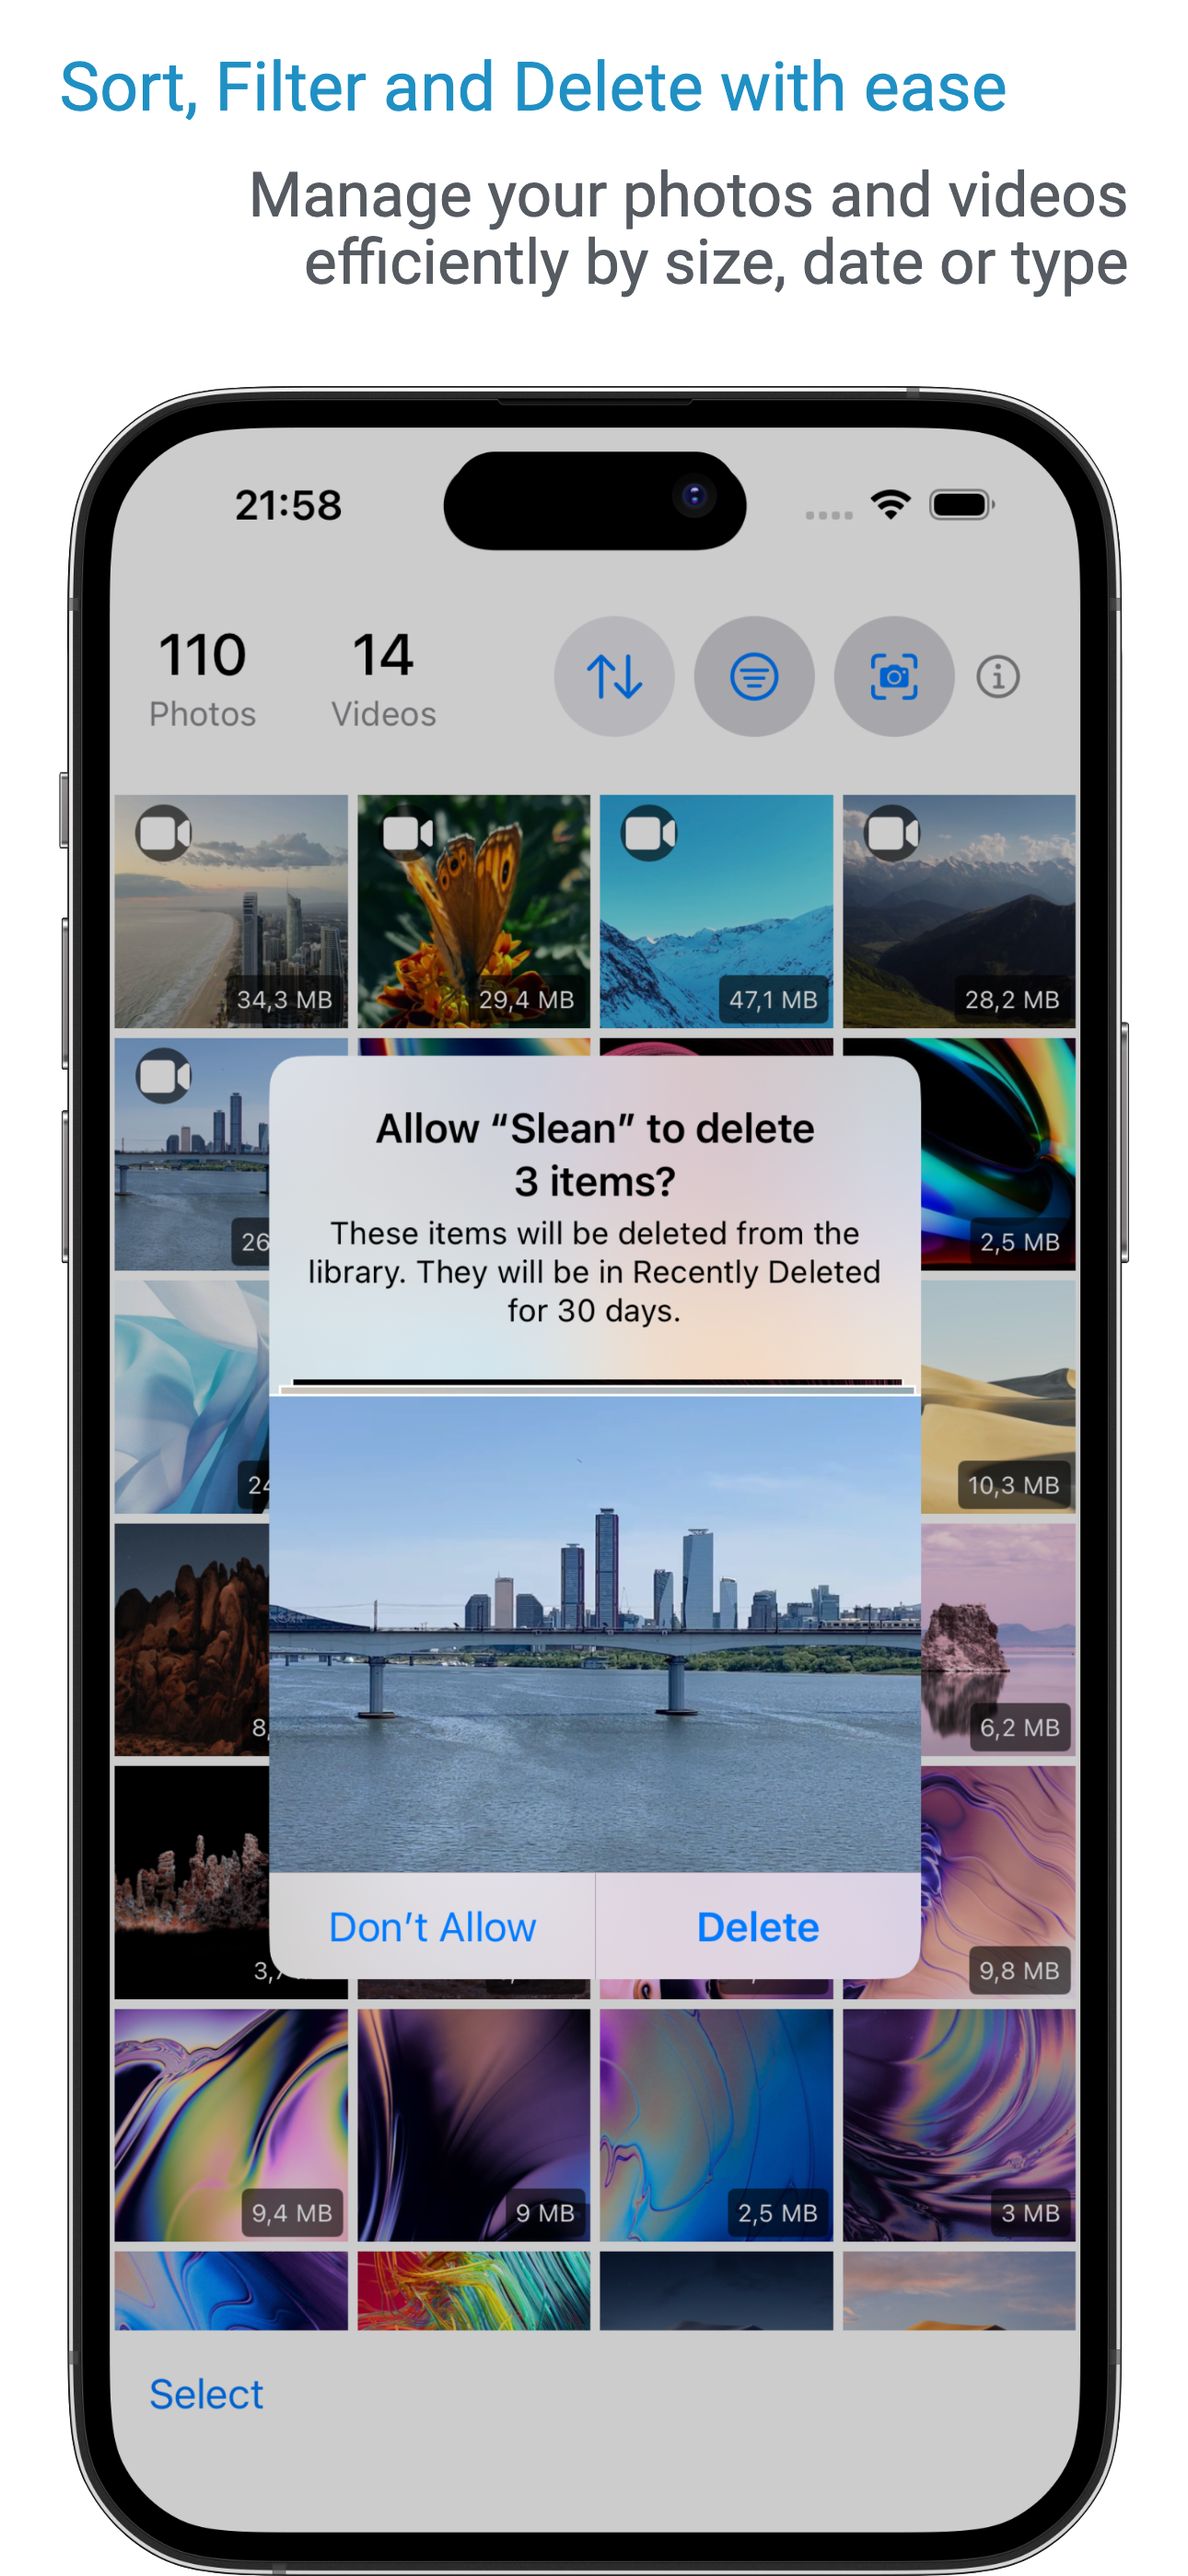
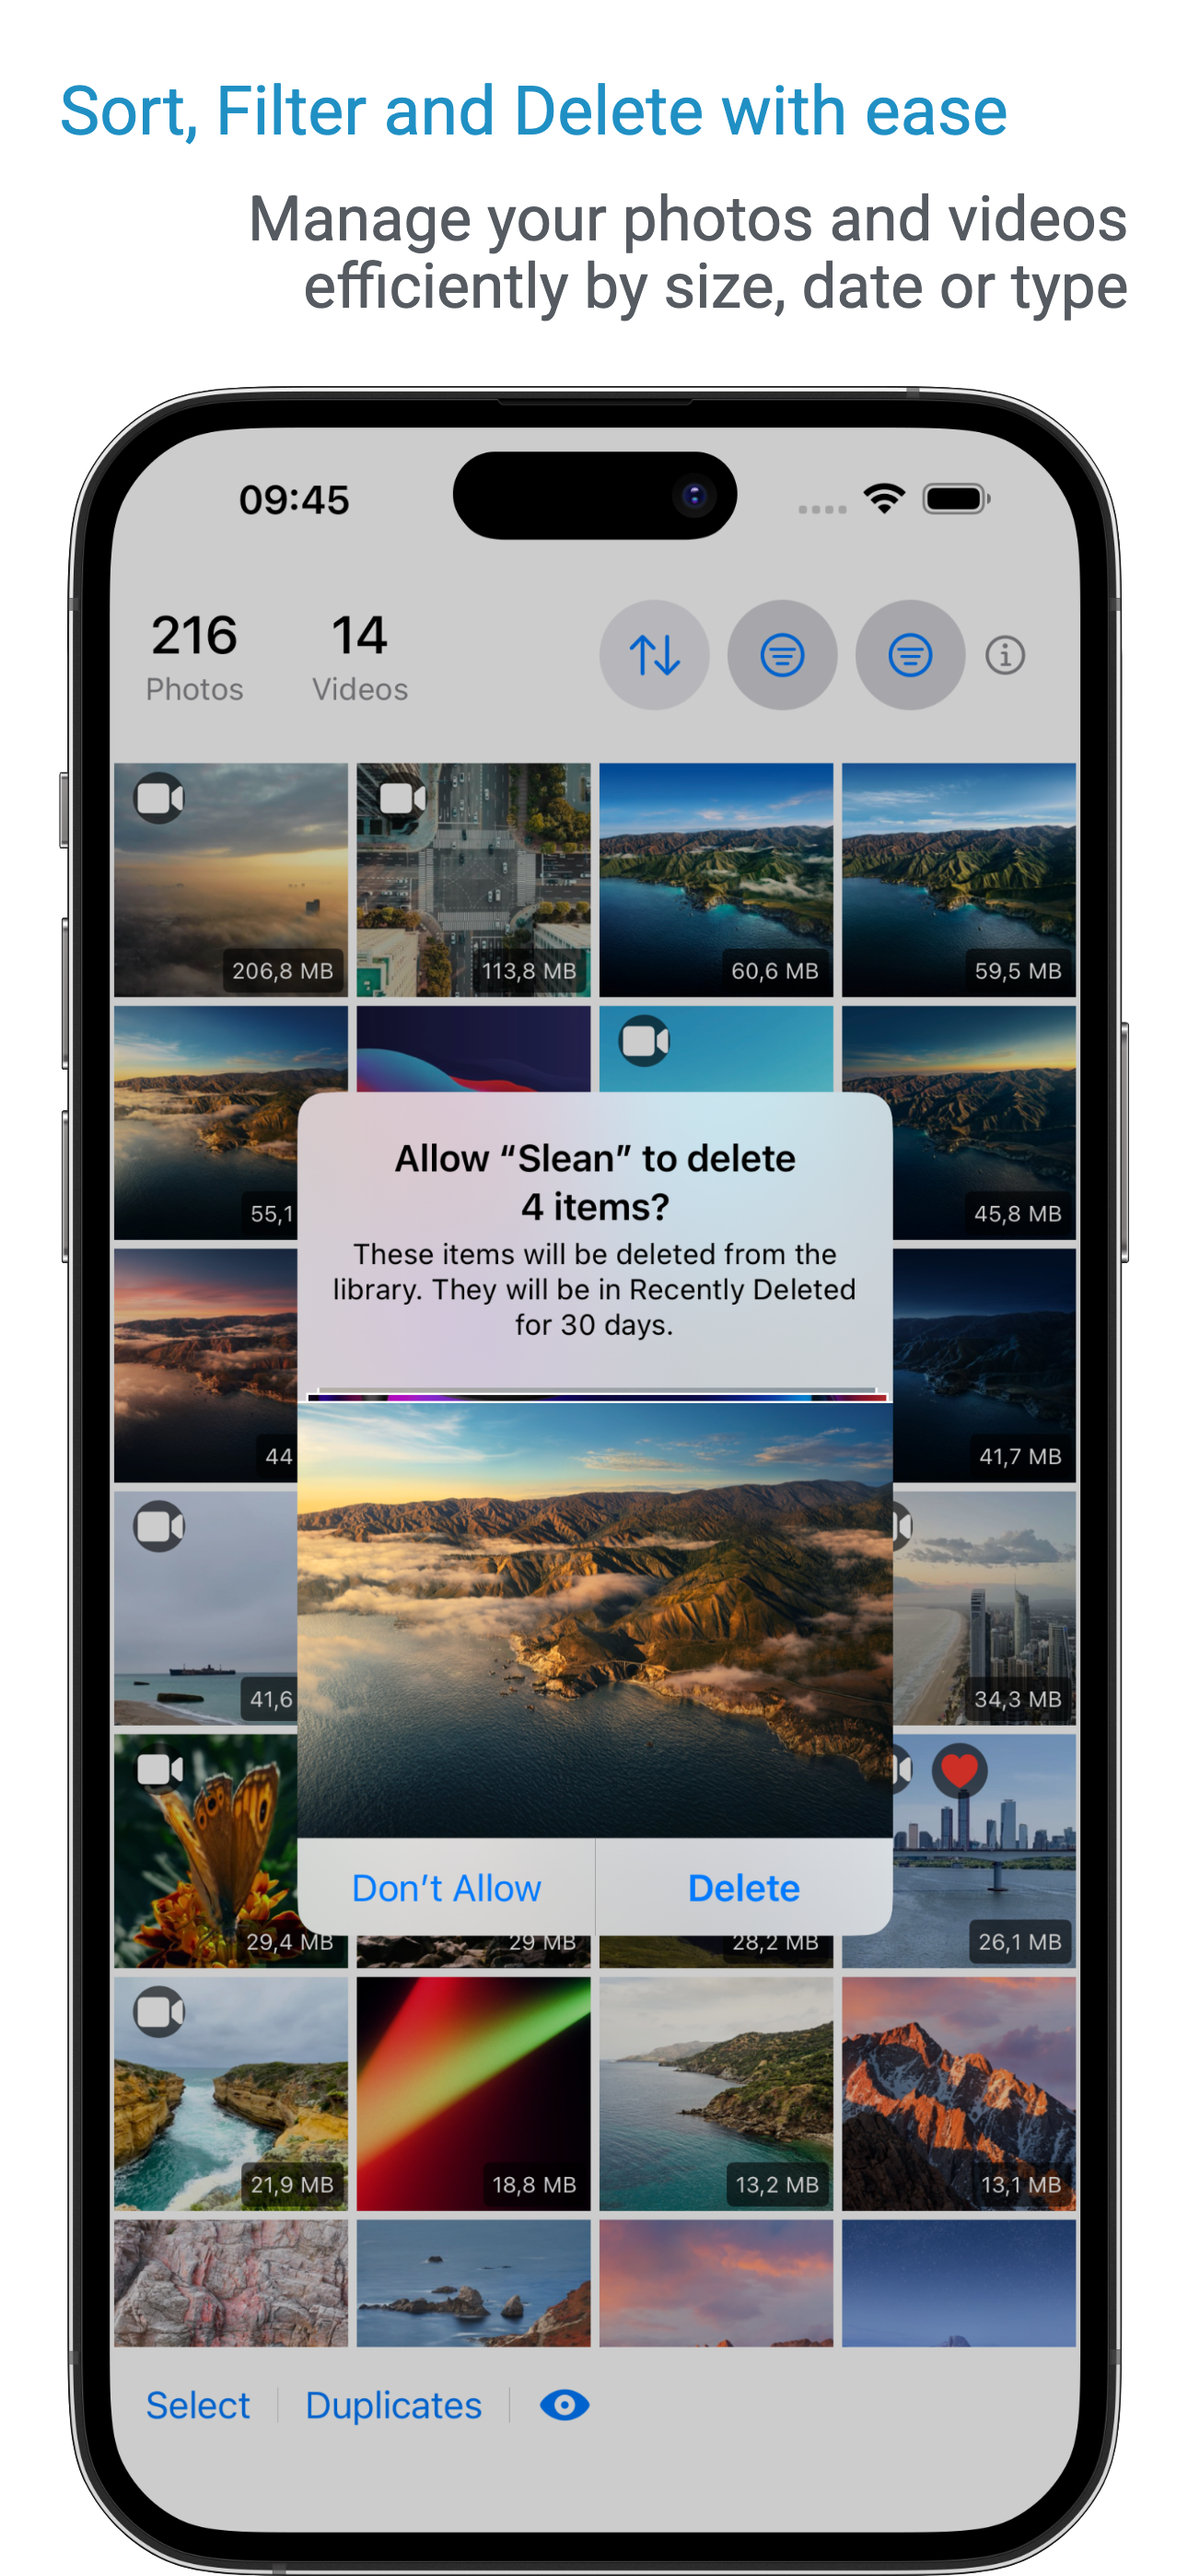
new features added & screenshots updated

diff --git a/index.html b/index.html
@@ -259,6 +259,23 @@
             box-shadow: 0 0 0 2px var(--primary-color);
             border-radius: 4px;
         }
+
+        .duplicate-feature {
+            background: linear-gradient(45deg, #007AFF, #5856D6);
+            color: white;
+            padding: 2px 8px;
+            border-radius: 12px;
+            font-size: 0.8em;
+            margin-left: 8px;
+        }
+
+        .feature-highlight {
+            border: 2px solid var(--primary-color);
+            border-radius: 24px;
+            padding: 25px;
+            margin: 15px 0;
+            background: rgba(0, 122, 255, 0.05);
+        }
     </style>
 </head>
 
@@ -295,8 +312,9 @@
                     </div>
                     <div class="app-preview">
                         <video autoplay loop muted playsinline controls controlslist="nodownload" preload="auto"
-                            class="preview-video">
-                            <source src="images/slean_now_available_video.mp4" type="video/mp4">
+                            class="preview-video" crossorigin="anonymous">
+                            <source src="images/slean_now_available_video.mp4" 
+                            type="video/mp4" codecs="avc1.42E01E,mp4a.40.2">
                             Your browser does not support the video tag.
                         </video>
                     </div>
@@ -320,9 +338,17 @@
                                 <li>Favoriler ve ekran görüntüleri için filtre butonunu kullanın</li>
                             </ul>
                         </div>
-
                         <div class="step">
-                            <h3>2. Seçim Seçenekleri</h3>
+                            <h3>2. Tekrarlanan Fotoğraf Yönetimi <span class="duplicate-feature">YENİ</span></h3>
+                            <ul>
+                                <li>Benzer fotoğrafları bulmak için tarama butonunu kullanın</li>
+                                <li>Tekrarlanan fotoğrafları renkli gruplar halinde görüntüleyin</li>
+                                <li>İstenmeyen tekrarlanan fotoğrafları kolayca seçin ve silin</li>
+                                <li>İlerleme göstergesi tarama durumunu gösterir</li>
+                            </ul>
+                        </div>
+                        <div class="step">
+                            <h3>3. Seçim Seçenekleri</h3>
                             <ul>
                                 <li>Alt kısımdaki 'Seç' butonuna dokunun</li>
                                 <li>Herhangi bir öğeye uzun basın</li>
@@ -331,7 +357,7 @@
                         </div>
 
                         <div class="step">
-                            <h3>3. Ek Özellikler</h3>
+                            <h3>4. Ek Özellikler</h3>
                             <ul>
                                 <li>Kütüphaneyi yenilemek için aşağı çekin</li>
                                 <li>Tam ekran görüntülemek için öğeye dokunun</li>
@@ -349,6 +375,11 @@
                             <div class="feature-icon">↕</div>
                             <h3>Akıllı Sıralama</h3>
                             <p>Medyayı boyuta ve tarihe göre artan veya azalan sırada sıralayın</p>
+                        </div>
+                        <div class="feature feature-highlight">
+                            <div class="feature-icon">👥</div>
+                            <h3>Tekrarlanan Fotoğraf Tespiti <span class="duplicate-feature">YENİ</span></h3>
+                            <p>Boyut karşılaştırması ve görsel analiz kullanarak tekrarlanan fotoğrafları tespit eder. Tekrarlananlar renkli olarak gruplanır.</p>
                         </div>
                         <div class="feature">
                             <div class="feature-icon">🔍</div>
@@ -487,9 +518,17 @@
                                 <li>Filter button for favorites and screenshots</li>
                             </ul>
                         </div>
-
                         <div class="step">
-                            <h3>2. Selection Options</h3>
+                            <h3>2. Duplicate Management<span class="duplicate-feature">NEW</span></h3>
+                            <ul>
+                                <li>Use the duplicate scan button to find similar photos</li>
+                                <li>View color-coded groups of duplicate images</li>
+                                <li>Easily select and remove unwanted duplicates</li>
+                                <li>Progress indicator shows scanning status</li>
+                            </ul>
+                        </div>
+                        <div class="step">
+                            <h3>3. Selection Options</h3>
                             <ul>
                                 <li>Tap 'Select' at bottom</li>
                                 <li>Long press any item</li>
@@ -498,7 +537,7 @@
                         </div>
 
                         <div class="step">
-                            <h3>3. Additional Features</h3>
+                            <h3>4. Additional Features</h3>
                             <ul>
                                 <li>Pull down to refresh library</li>
                                 <li>Tap item for full-screen view</li>
@@ -516,6 +555,11 @@
                             <div class="feature-icon">↕</div>
                             <h3>Smart Sorting</h3>
                             <p>Sort media by size and date in ascending or descending order</p>
+                        </div>
+                        <div class="feature feature-highlight">
+                            <div class="feature-icon">👥</div>
+                            <h3>Duplicate Detection <span class="duplicate-feature">NEW</span></h3>
+                            <p>Advanced duplicate photo detection using size comparison and perceptual hashing. Color-coded groups for easy identification.</p>
                         </div>
                         <div class="feature">
                             <div class="feature-icon">🔍</div>
@@ -556,7 +600,7 @@
                 </section>
 
                 <section>
-                    <h2>iOS Ekran Görüntüleri</h2>
+                    <h2>iOS Screenshots</h2>
                     <div class="screenshots">
                         <img src="images/iphone_14_pro_max_ss_1.png" alt="Slean Uygulama Ekran Görüntüsü 1"
                             class="screenshot">
@@ -572,11 +616,15 @@
                             class="screenshot">
                         <img src="images/iphone_14_pro_max_ss_7.png" alt="Slean Uygulama Ekran Görüntüsü 7"
                             class="screenshot">
+                        <img src="images/iphone_14_pro_max_ss_8.png" alt="Slean Uygulama Ekran Görüntüsü 8"
+                            class="screenshot">
+                        <img src="images/iphone_14_pro_max_ss_9.png" alt="Slean Uygulama Ekran Görüntüsü 9"
+                            class="screenshot">
                     </div>
                 </section>
 
                 <section>
-                    <h2>iPadOS Ekran Görüntüleri</h2>
+                    <h2>iPadOS Screenshots</h2>
                     <div class="screenshots">
                         <img src="images/ipad_pro_13_inch_ss_1.png" alt="Slean Uygulama Ekran Görüntüsü 8"
                             class="screenshot">
@@ -591,6 +639,10 @@
                         <img src="images/ipad_pro_13_inch_ss_6.png" alt="Slean Uygulama Ekran Görüntüsü 13"
                             class="screenshot">
                         <img src="images/ipad_pro_13_inch_ss_7.png" alt="Slean Uygulama Ekran Görüntüsü 14"
+                            class="screenshot">
+                        <img src="images/ipad_pro_13_inch_ss_8.png" alt="Slean Uygulama Ekran Görüntüsü 15"
+                            class="screenshot">
+                        <img src="images/ipad_pro_13_inch_ss_9.png" alt="Slean Uygulama Ekran Görüntüsü 16"
                             class="screenshot">
                     </div>
                 </section>
